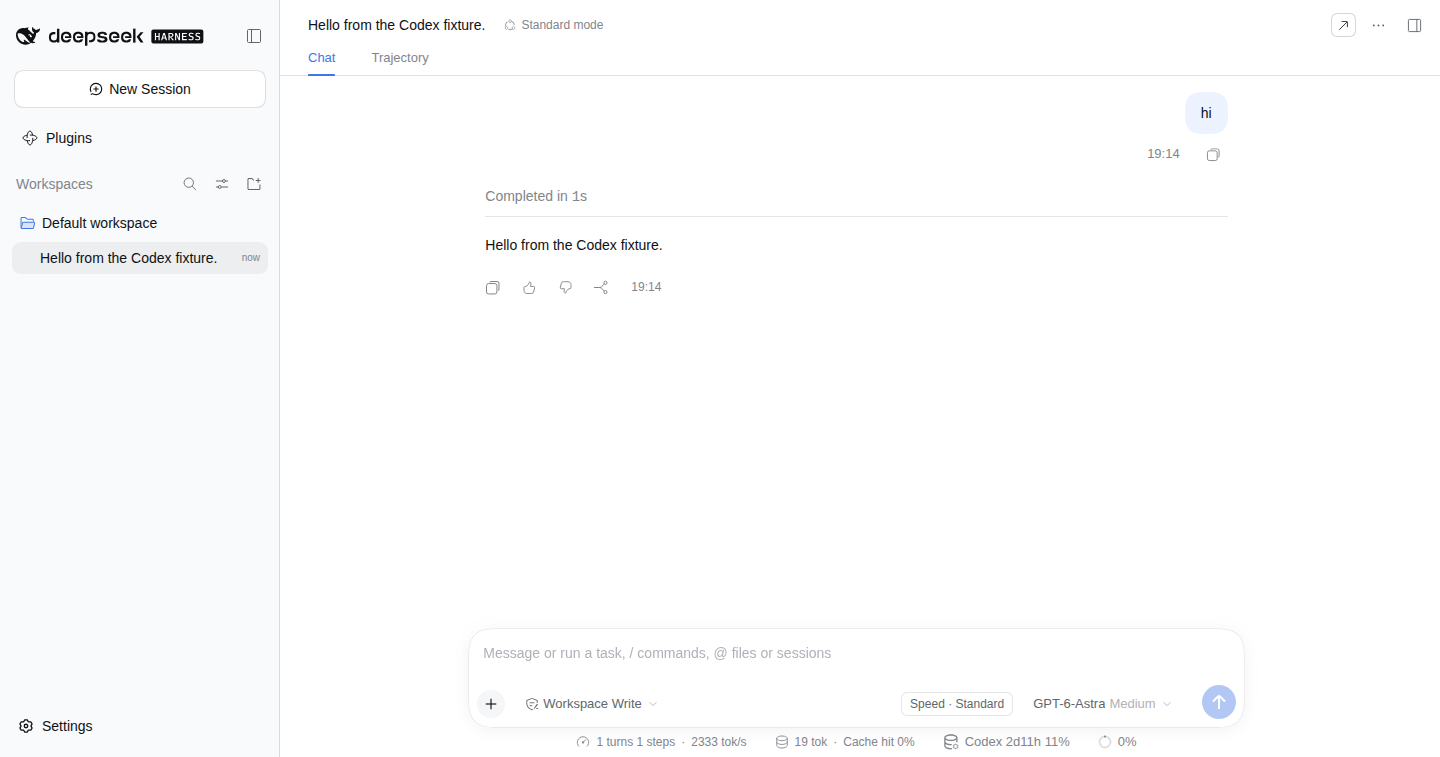
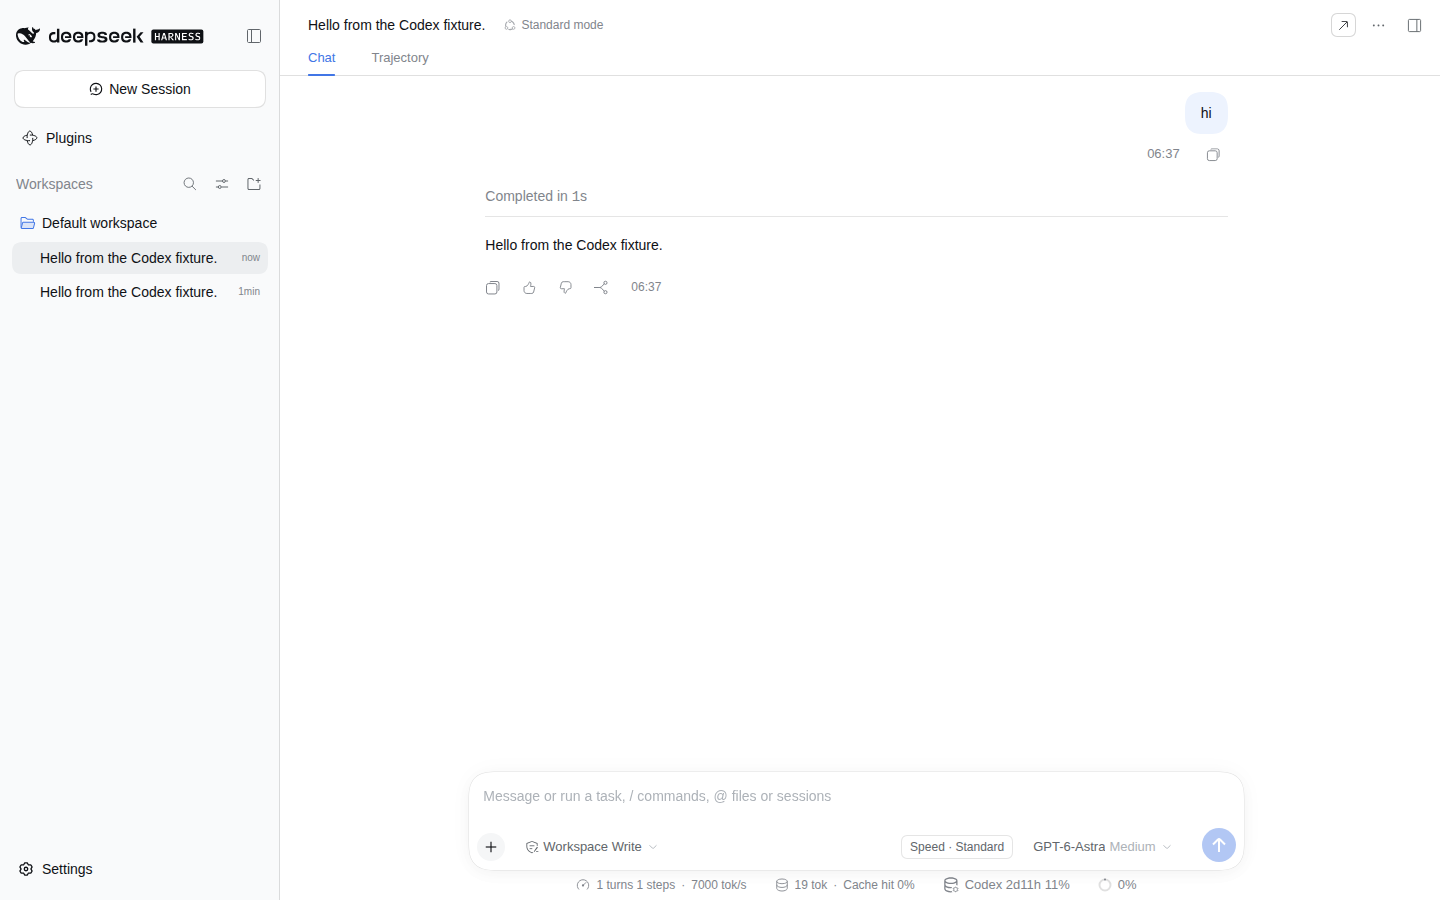
docs: show elapsed-time cursors in README screenshots (#33)
* docs: show elapsed-time cursors in README screenshots

* docs: show an orange pace warning in README screenshots

---------

diff --git a/README.md b/README.md
@@ -68,13 +68,13 @@ and tool settings.
 
 ### Quota while you work
 
-The composer's stats row gains a **subscription usage** pill showing the
+The composer's stats row gains a **provider usage** pill showing the
 used percentage and reset window for the provider of the session's current
 model. It shows at most one provider; switching to a non-subscription model
 keeps the most recent subscription selected in the mounted conversation
 view, or stays hidden if there is none.
 
-![Subscription usage pill in the stats row](docs/images/usage-pill.png)
+![Provider usage pill in the stats row](docs/images/usage-pill.png)
 
 Click the pill to expand every provider and account that reports usage —
 the default account is starred, and the current provider is listed first.
@@ -83,7 +83,15 @@ neither do accounts without a usage window. Antigravity previews only the
 current model's windows; the other model windows stay in a closed
 disclosure.
 
-![Subscription usage pill expanded](docs/images/usage-badge.png)
+Quota bars include a dark elapsed-time cursor when a fresh reading has a
+known window interval. Compare the colored fill (quota used) with the
+cursor (time elapsed); hover for the percentages and reset countdown.
+Standard coloring turns the fill orange when usage leads elapsed time by
+10 points, and Relaxed uses 15; 90% used turns it red and takes priority.
+Stale readings and windows without known timing omit the cursor. Choose
+Standard, Relaxed, or Remaining colors in **Settings → Subscriptions**.
+
+![Usage dialog with elapsed-time cursors](docs/images/usage-badge.png)
 
 ## Install
 
